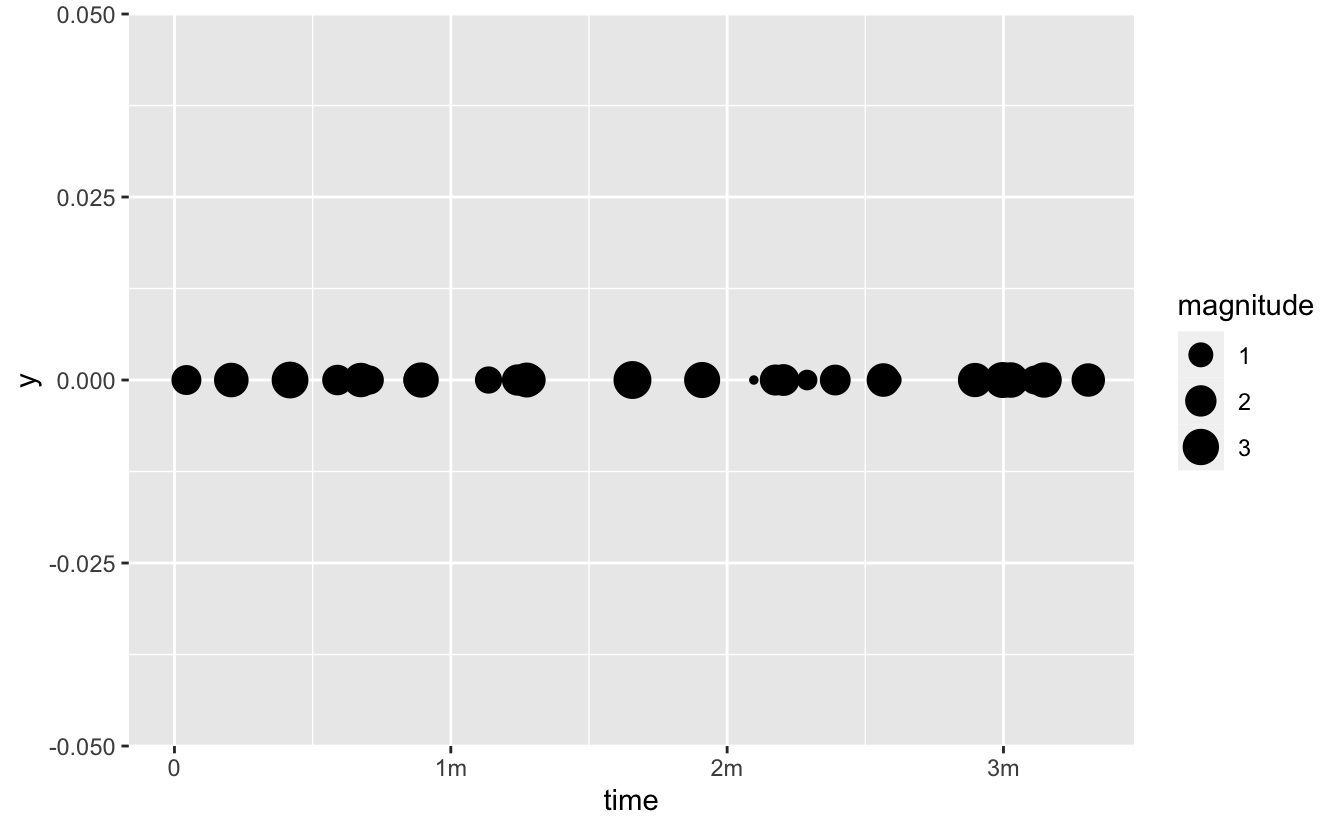
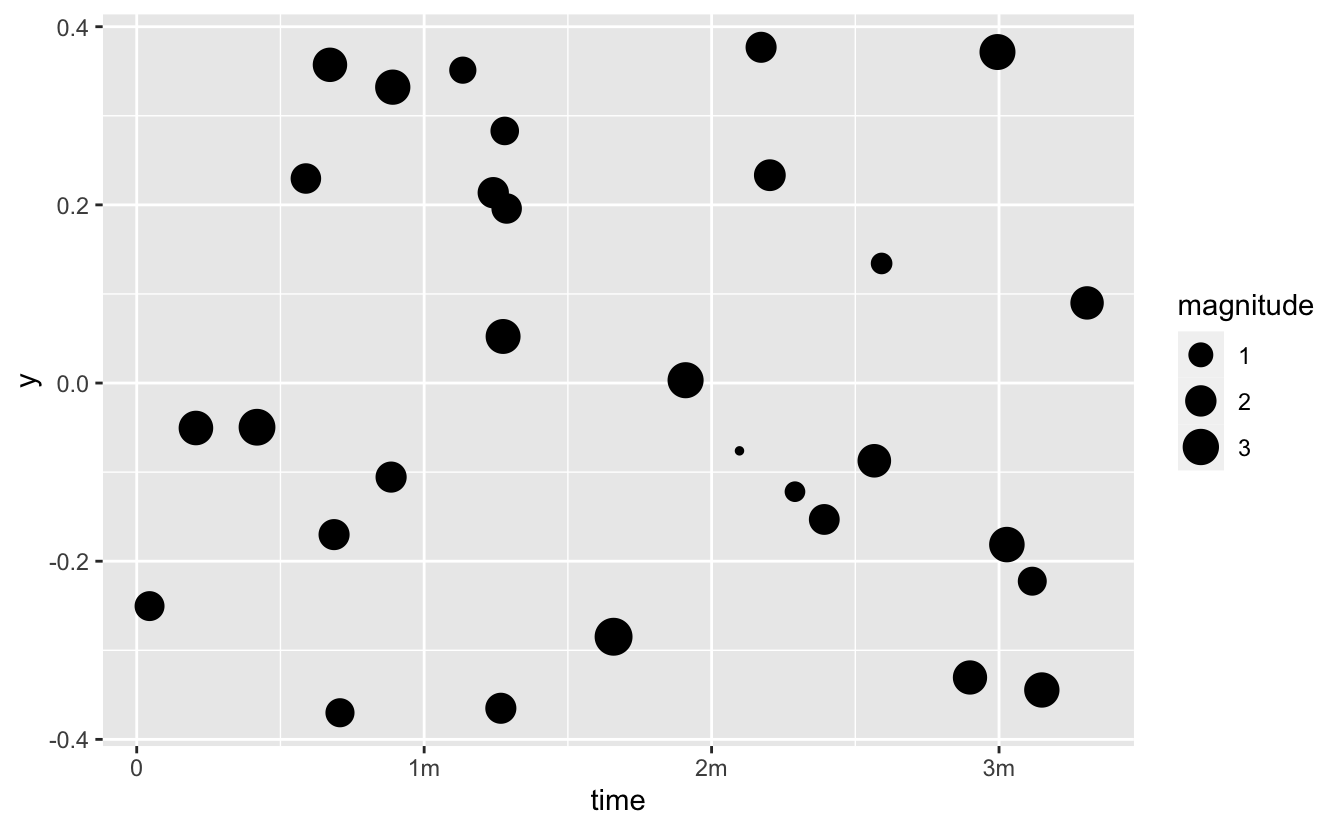
update based on input

diff --git a/content/blog/scales-1-3-0/index.md b/content/blog/scales-1-3-0/index.md
@@ -6,8 +6,8 @@ title: scales 1.3.0
 date: 2023-11-07
 author: Thomas Lin Pedersen
 description: >
-    scales 1.3.0 is a minor release focusing on streamlining the API and gradual improvements 
-    of the existing utilities
+    scales 1.3.0 is a minor release focusing on streamlining the API and gradual
+    improvements of the existing utilities
 
 photo:
   url: https://unsplash.com/photos/gold-and-silver-round-frame-magnifying-glass-j06gLuKK0GM
@@ -15,8 +15,8 @@ photo:
 
 # one of: "deep-dive", "learn", "package", "programming", "roundup", or "other"
 categories: [package] 
-tags: []
-rmd_hash: 6e756c97e01daf52
+tags: [scales]
+rmd_hash: 6c94729cc82a7783
 
 ---
 
@@ -46,7 +46,7 @@ You can install it from CRAN with:
 
 This blog post will give a quick overview of the 1.3.0 release, which is mainly an upkeep release but does contain a few interesting tidbits.
 
-You can see a full list of changes in the [release notes](%7B%20github_release%20%7D)
+You can see a full list of changes in the [release notes](https://scales.r-lib.org/news/index.html)
 
 <div class="highlight">
 
@@ -58,35 +58,42 @@ You can see a full list of changes in the [release notes](%7B%20github_release%2
 
 ## Proper support for difftime objects
 
-While scales have had rudimentary support for objects from the hms package it has not included basic support for difftime objects from base. This is now rectified with the introduction of [`label_timespan()`](https://scales.r-lib.org/reference/label_date.html), [`breaks_timespan()`](https://scales.r-lib.org/reference/breaks_timespan.html), and [`transform_timespan()`](https://scales.r-lib.org/reference/transform_timespan.html). While the labels and breaks function can be used on their own, all the behavior is encapsulated in the timespan transform object which is kin to [`transform_hms()`](https://scales.r-lib.org/reference/transform_timespan.html).
+While scales had rudimentary support for objects from the hms package, I did not support the more common base R difftime objects. This is now rectified with the introduction of [`label_timespan()`](https://scales.r-lib.org/reference/label_date.html), [`breaks_timespan()`](https://scales.r-lib.org/reference/breaks_timespan.html), and [`transform_timespan()`](https://scales.r-lib.org/reference/transform_timespan.html). While the labels and breaks function can be used on their own, all the behavior is encapsulated in the timespan transform object which is kin to [`transform_hms()`](https://scales.r-lib.org/reference/transform_timespan.html).
 
 <div class="highlight">
 
 <pre class='chroma'><code class='language-r' data-lang='r'><span class='kr'><a href='https://rdrr.io/r/base/library.html'>library</a></span><span class='o'>(</span><span class='nv'><a href='https://ggplot2.tidyverse.org'>ggplot2</a></span><span class='o'>)</span>
 
 <span class='nv'>events</span> <span class='o'>&lt;-</span> <span class='nf'><a href='https://rdrr.io/r/base/data.frame.html'>data.frame</a></span><span class='o'>(</span>
-  time <span class='o'>=</span> <span class='nf'><a href='https://rdrr.io/r/stats/Uniform.html'>runif</a></span><span class='o'>(</span><span class='m'>30</span>, max <span class='o'>=</span> <span class='m'>200</span><span class='o'>)</span>,
+  time <span class='o'>=</span> <span class='nf'><a href='https://rdrr.io/r/base/difftime.html'>as.difftime</a></span><span class='o'>(</span><span class='nf'><a href='https://rdrr.io/r/stats/Uniform.html'>runif</a></span><span class='o'>(</span><span class='m'>30</span>, max <span class='o'>=</span> <span class='m'>200</span><span class='o'>)</span>, units <span class='o'>=</span> <span class='s'>"secs"</span><span class='o'>)</span>,
   magnitude <span class='o'>=</span> <span class='nf'><a href='https://rdrr.io/r/stats/Normal.html'>rnorm</a></span><span class='o'>(</span><span class='m'>30</span><span class='o'>)</span> <span class='o'>+</span> <span class='m'>2</span>
 <span class='o'>)</span>
 
 <span class='nf'><a href='https://ggplot2.tidyverse.org/reference/ggplot.html'>ggplot</a></span><span class='o'>(</span><span class='nv'>events</span><span class='o'>)</span> <span class='o'>+</span> 
-  <span class='nf'><a href='https://ggplot2.tidyverse.org/reference/geom_point.html'>geom_point</a></span><span class='o'>(</span><span class='nf'><a href='https://ggplot2.tidyverse.org/reference/aes.html'>aes</a></span><span class='o'>(</span><span class='nv'>time</span>, y <span class='o'>=</span> <span class='m'>0</span>, size <span class='o'>=</span> <span class='nv'>magnitude</span><span class='o'>)</span>, position <span class='o'>=</span> <span class='nf'><a href='https://ggplot2.tidyverse.org/reference/position_jitter.html'>position_jitter</a></span><span class='o'>(</span>height <span class='o'>=</span> <span class='m'>0</span><span class='o'>)</span><span class='o'>)</span> <span class='o'>+</span> 
-  <span class='nf'><a href='https://ggplot2.tidyverse.org/reference/scale_continuous.html'>scale_x_continuous</a></span><span class='o'>(</span>trans <span class='o'>=</span> <span class='nf'><a href='https://scales.r-lib.org/reference/transform_timespan.html'>transform_timespan</a></span><span class='o'>(</span><span class='o'>)</span>, limits <span class='o'>=</span> <span class='nf'><a href='https://rdrr.io/r/base/c.html'>c</a></span><span class='o'>(</span><span class='m'>0</span>, <span class='kc'>NA</span><span class='o'>)</span><span class='o'>)</span>
+  <span class='nf'><a href='https://ggplot2.tidyverse.org/reference/geom_point.html'>geom_point</a></span><span class='o'>(</span>
+    <span class='nf'><a href='https://ggplot2.tidyverse.org/reference/aes.html'>aes</a></span><span class='o'>(</span><span class='nv'>time</span>, y <span class='o'>=</span> <span class='m'>0</span>, size <span class='o'>=</span> <span class='nv'>magnitude</span><span class='o'>)</span>, 
+    position <span class='o'>=</span> <span class='nf'><a href='https://ggplot2.tidyverse.org/reference/position_jitter.html'>position_jitter</a></span><span class='o'>(</span>width <span class='o'>=</span> <span class='m'>0</span><span class='o'>)</span>
+  <span class='o'>)</span> <span class='o'>+</span> 
+  <span class='nf'><a href='https://ggplot2.tidyverse.org/reference/scale_continuous.html'>scale_x_continuous</a></span><span class='o'>(</span>trans <span class='o'>=</span> <span class='nf'><a href='https://scales.r-lib.org/reference/transform_timespan.html'>transform_timespan</a></span><span class='o'>(</span><span class='o'>)</span><span class='o'>)</span>
 
 </code></pre>
 <img src="figs/unnamed-chunk-2-1.png" width="700px" style="display: block; margin: auto;" />
 
 </div>
 
-As we can see the timespan transform by default understand numeric data as seconds elapsed. Further it identifies that for this range, adding breaks for minutes makes most sense.
+As we can see the timespan transform automatically picks the unit of the difftime object. Further it identifies that for this range, adding breaks for minutes makes most sense.
 
-If we had recorded time as hours rather than seconds, we can inform the transformer of this:
+If we had recorded time as hours rather than seconds, we can see how that affects the labelling:
 
 <div class="highlight">
 
-<pre class='chroma'><code class='language-r' data-lang='r'><span class='nf'><a href='https://ggplot2.tidyverse.org/reference/ggplot.html'>ggplot</a></span><span class='o'>(</span><span class='nv'>events</span><span class='o'>)</span> <span class='o'>+</span> 
-  <span class='nf'><a href='https://ggplot2.tidyverse.org/reference/geom_point.html'>geom_point</a></span><span class='o'>(</span><span class='nf'><a href='https://ggplot2.tidyverse.org/reference/aes.html'>aes</a></span><span class='o'>(</span><span class='nv'>time</span>, y <span class='o'>=</span> <span class='m'>0</span>, size <span class='o'>=</span> <span class='nv'>magnitude</span><span class='o'>)</span>, position <span class='o'>=</span> <span class='nf'><a href='https://ggplot2.tidyverse.org/reference/position_jitter.html'>position_jitter</a></span><span class='o'>(</span>height <span class='o'>=</span> <span class='m'>0</span><span class='o'>)</span><span class='o'>)</span> <span class='o'>+</span> 
-  <span class='nf'><a href='https://ggplot2.tidyverse.org/reference/scale_continuous.html'>scale_x_continuous</a></span><span class='o'>(</span>trans <span class='o'>=</span> <span class='nf'><a href='https://scales.r-lib.org/reference/transform_timespan.html'>transform_timespan</a></span><span class='o'>(</span><span class='s'>"hours"</span><span class='o'>)</span>, limits <span class='o'>=</span> <span class='nf'><a href='https://rdrr.io/r/base/c.html'>c</a></span><span class='o'>(</span><span class='m'>0</span>, <span class='kc'>NA</span><span class='o'>)</span><span class='o'>)</span>
+<pre class='chroma'><code class='language-r' data-lang='r'><span class='nv'>events</span><span class='o'>$</span><span class='nv'>time</span> <span class='o'>&lt;-</span> <span class='nf'><a href='https://rdrr.io/r/base/difftime.html'>as.difftime</a></span><span class='o'>(</span><span class='nf'><a href='https://rdrr.io/r/stats/Uniform.html'>runif</a></span><span class='o'>(</span><span class='m'>30</span>, max <span class='o'>=</span> <span class='m'>200</span><span class='o'>)</span>, units <span class='o'>=</span> <span class='s'>"hours"</span><span class='o'>)</span>
+<span class='nf'><a href='https://ggplot2.tidyverse.org/reference/ggplot.html'>ggplot</a></span><span class='o'>(</span><span class='nv'>events</span><span class='o'>)</span> <span class='o'>+</span> 
+  <span class='nf'><a href='https://ggplot2.tidyverse.org/reference/geom_point.html'>geom_point</a></span><span class='o'>(</span>
+    <span class='nf'><a href='https://ggplot2.tidyverse.org/reference/aes.html'>aes</a></span><span class='o'>(</span><span class='nv'>time</span>, y <span class='o'>=</span> <span class='m'>0</span>, size <span class='o'>=</span> <span class='nv'>magnitude</span><span class='o'>)</span>, 
+    position <span class='o'>=</span> <span class='nf'><a href='https://ggplot2.tidyverse.org/reference/position_jitter.html'>position_jitter</a></span><span class='o'>(</span>width <span class='o'>=</span> <span class='m'>0</span><span class='o'>)</span>
+  <span class='o'>)</span> <span class='o'>+</span> 
+  <span class='nf'><a href='https://ggplot2.tidyverse.org/reference/scale_continuous.html'>scale_x_continuous</a></span><span class='o'>(</span>trans <span class='o'>=</span> <span class='nf'><a href='https://scales.r-lib.org/reference/transform_timespan.html'>transform_timespan</a></span><span class='o'>(</span><span class='s'>"hours"</span><span class='o'>)</span><span class='o'>)</span>
 
 </code></pre>
 <img src="figs/unnamed-chunk-3-1.png" width="700px" style="display: block; margin: auto;" />
@@ -95,11 +102,11 @@ If we had recorded time as hours rather than seconds, we can inform the transfor
 
 ## API brush-up
 
-scales has gone through a number of touch-ups on its API, latest with a revamp of the labels functions which are now all prefixed with `label_`. With this release we continues (and hopefully concludes) this by changing the naming of the transformation utilities and the palettes. More in line with how we cater to tab-completion when designing functions they all now shares a `transform_` and `pal_` prefix respectively. Further, we have moved from the word `trans` to the more descriptive `transform` throughout the API. On top of that we have renamed the [`label_dollar()`](https://scales.r-lib.org/reference/dollar_format.html) function to [`label_currency()`](https://scales.r-lib.org/reference/label_currency.html) to make it clear that this can be used for any type of currency, not just US dollars. All the old functions have been kept around with no plan of deprecation but we advice you to update your code to use the new names.
+scales has gone through a number of touch-ups on its API, such as revamping the labels functions to all start with `label_`. This release we continue (and hopefully conclude) the touch-ups by using a common prefix for the transformation utilities (`transform_`) and palettes (`pal_`). We have also rename [`label_dollar()`](https://scales.r-lib.org/reference/dollar_format.html) to [`label_currency()`](https://scales.r-lib.org/reference/label_currency.html) to make it clear that this can be used for any type of currency, not just dollars (US or otherwise). All the old functions have been kept around with no plan of deprecation but we advise you to update your code to use the new names.
 
 ## More transformation power
 
-This release also includes some news about transformations apart from the name changes. They have received a fair amount of bug fixes and a new build in transformation type has joined the group. [`transform_asinh()`](https://scales.r-lib.org/reference/transform_asinh.html), the inverse hyperbolic sine transformation, can be used much like log transformations, but support negative values as well.
+This release also includes some other updates to the transformations. They have received a fair amount of bug fixes and a new built-in transformation type has joined the group: [`transform_asinh()`](https://scales.r-lib.org/reference/transform_asinh.html), the inverse hyperbolic sine transformation, can be used much like log transformations, but it also supports negative values.
 
 <div class="highlight">
 
@@ -112,7 +119,7 @@ This release also includes some news about transformations apart from the name c
 
 </div>
 
-Transformation objects can also now optionally contain information about it's derivatives and inverse derivative which makes it possible to properly correct density estimations of transformed values.
+Transformation objects can now also (optionally) record the derivatives and inverse derivative which makes it possible to properly correct density estimations of transformed values.
 
 ## Fixes to range training in discrete scales
 
